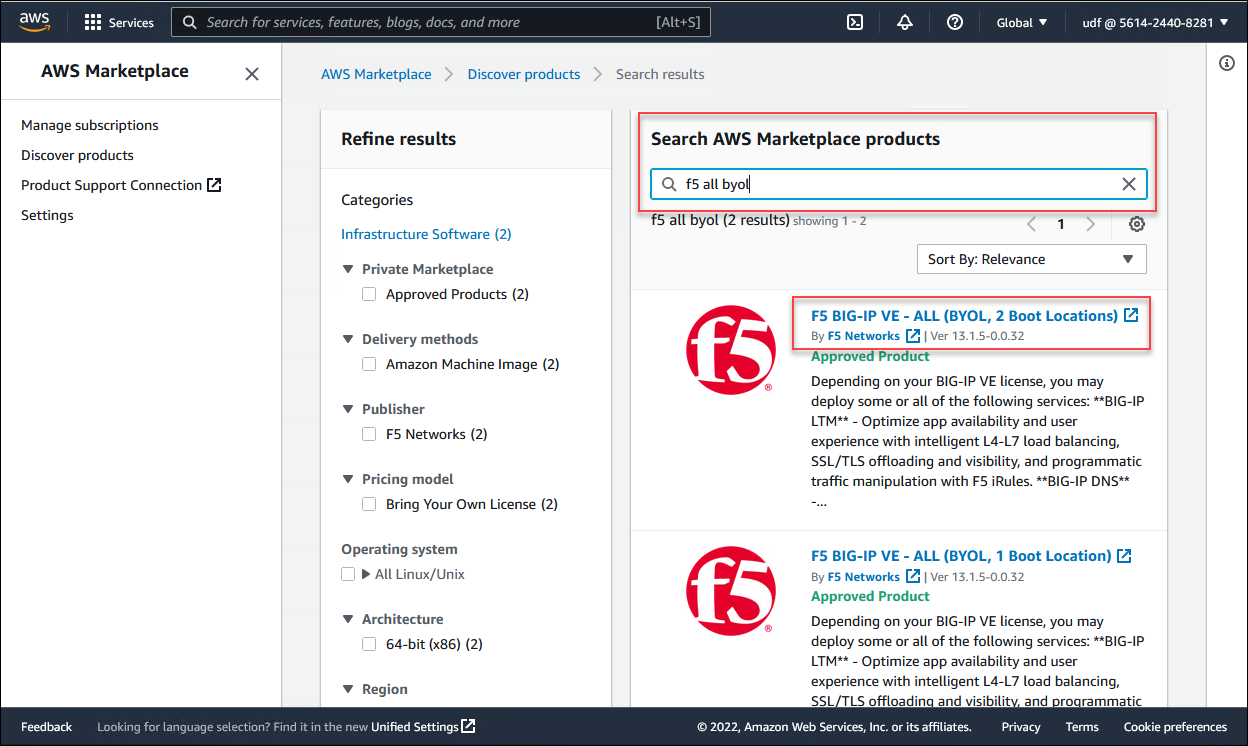
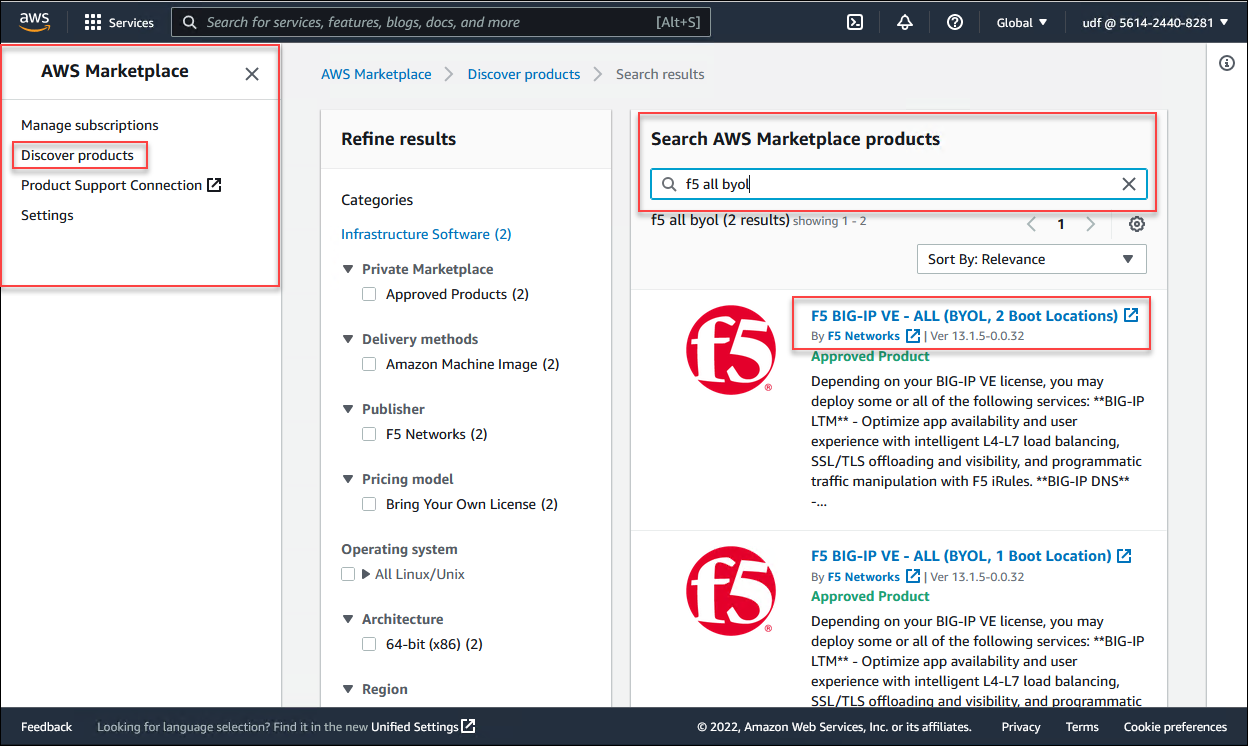
SSLO 301 corrections

Changed region(s): [[0.0, 0.0617, 0.25, 0.4008]]

diff --git a/docs/class3/module1/lab3.rst b/docs/class3/module1/lab3.rst
@@ -5,14 +5,12 @@ Before you can deploy EC2 virtual machine instances, you must **subscribe** to t
 
 Type ``marketplace`` in the AWS Console search box at the top of the page.
 
-Select **AWS Marketplace Subscriptions** from the search results.
-
-Click on the *hamburger* menu icon at the top left.
+Click on **AWS Marketplace Subscriptions** from the search results.
 
 .. image:: ./images/aws-mkt-0.png
    :align: left
 
-Click on **Discover products**.
+In the menu to the left, click on **Discover products**. If you do not see this menu, click on the |hamburger| (*hamburger*) menu icon first.
 
 Enter ``f5 all byol`` in the **AWS Marketplace products** search box.
 
@@ -78,6 +76,10 @@ Keep your browser window open. You will need to return to it later.
 
 In the next section, you will use Terraform to build the AWS network infrastructure for this lab.
 
+
+
+
+.. |hamburger| image:: ./images/aws-mkt-menu.png
 
 .. |ec2-bigip| raw:: html
 

diff --git a/docs/class3/module4/lab7.rst b/docs/class3/module4/lab7.rst
@@ -1,7 +1,7 @@
 Deploy SSL Orchestrator Topology
 ================================================================================
 
-In the BASH Terminal, deploy an Inbound L3 Topology by executing the following:
+Return to the BASH Terminal (you should still be in the *ansible* directory) to deploy an Inbound L3 Topology by executing the following:
 
    .. code-block:: bash
 
